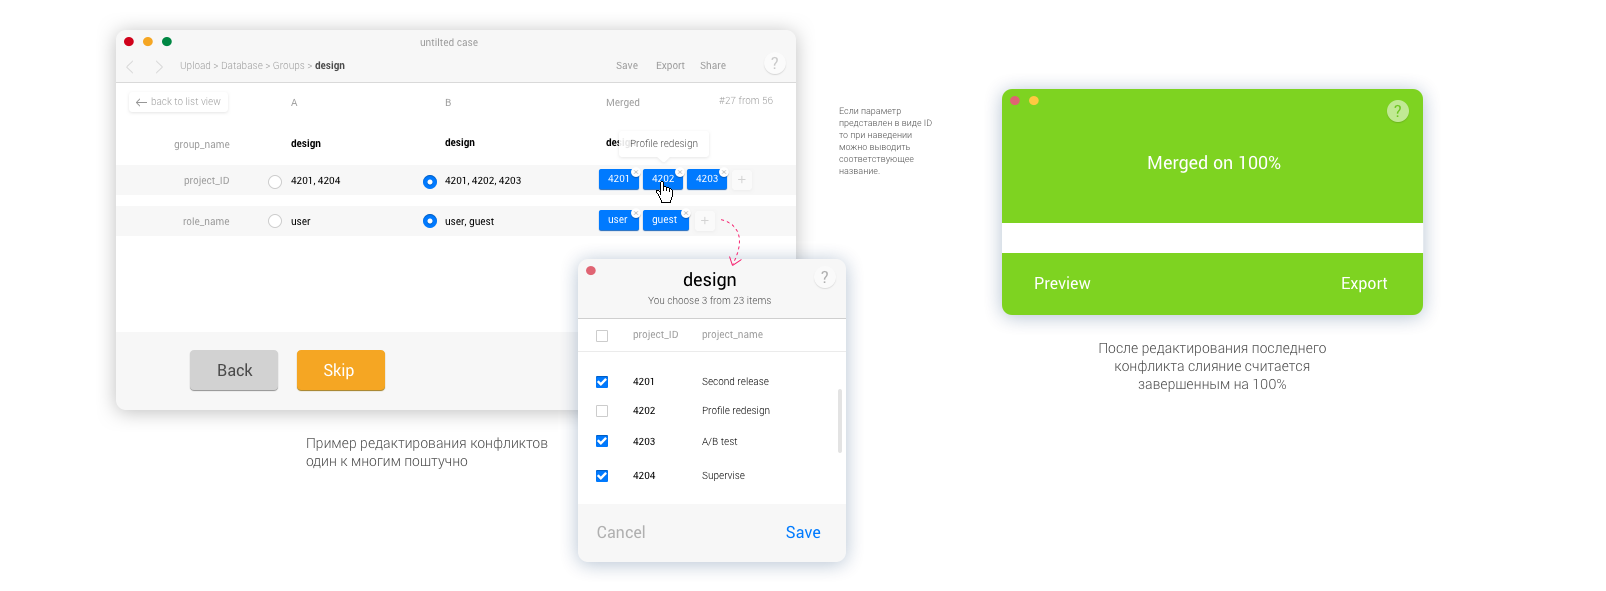
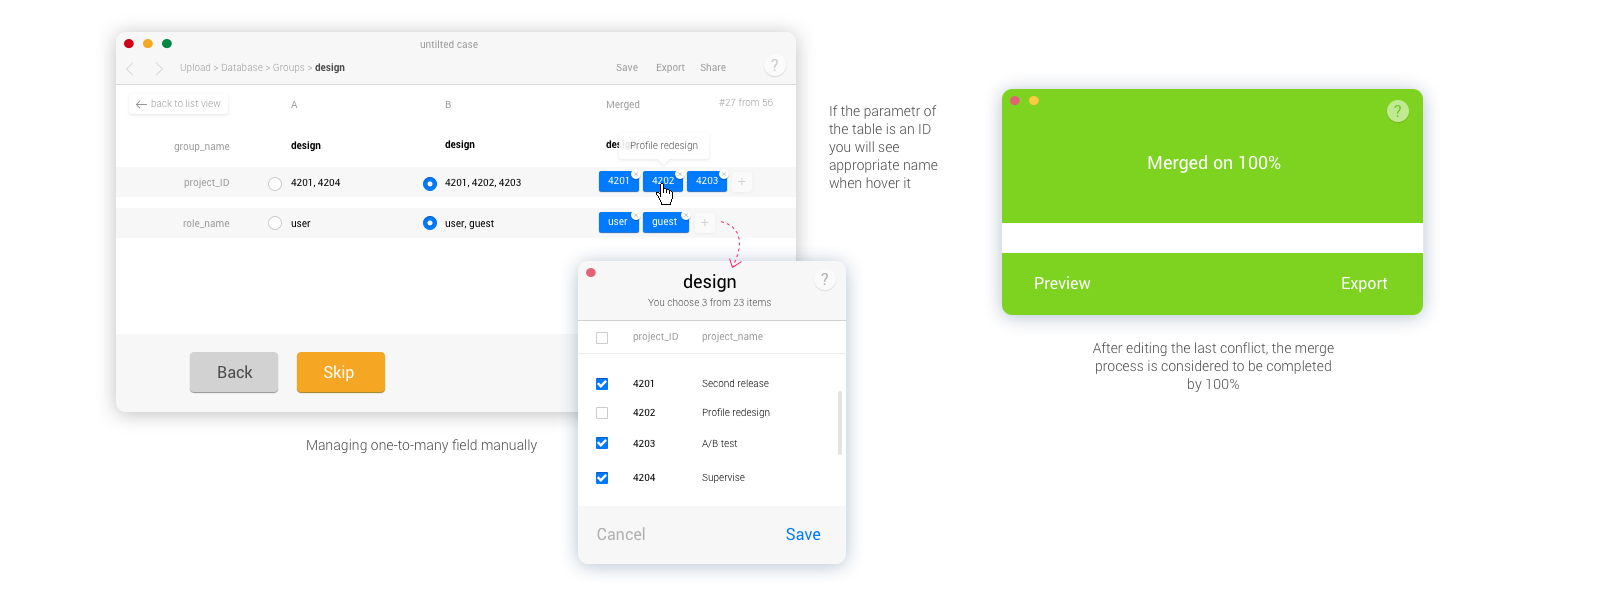
21

diff --git a/db.html b/db.html
@@ -54,21 +54,21 @@
             <h4>Design Utilities that merge 2 relational databases, saves this process in a temporary file for later editing and exporting the new database to the desired format.
 </h4>       
             <h3>The problem to think and to solve</h3>
-            <p>What is relational Database? </p>
-            <p>Why somebody needs the special tool for merging? </p>
-            <p>Who will use this tool? </p>
-            <p>What feature makes this tool comfortable for users and unique on the market? </p>
-            <p>How the is the process of merging databases going on? </p>
-            <p>Where is the point of success in this process? </p>
+            <li>What is relational Database? </li>
+            <li>Why somebody needs the special tool for merging? </li>
+            <li>Who will use this tool? </li>
+            <li>What feature makes this tool comfortable for users and unique on the market? </li>
+            <li>How the is the process of merging databases going on? </li>
+            <li>Where is the point of success in this process?</li>
             <h3>Research </h3>
             <p>A database is kind of related data and the way it is organised. The relational database help to track information about on example users, their names, logins information, various groups and projects they are involved and normalised it into a user table, groups table and projects table, accordingly. </p>
             <p>When information was being collected about a user, information stored in the optional tables would be found by searching for a special key. For instance, if the login name of a user is unique, all information about that user would be recorded with the login name as its key. Keys and table names play a "key" role when comparing or merging databases because it is for them to determine the identity of data. </p>
             <p>A relational database management system uses MERGE statements to write new or overwrite existing records depending on whether condition matches. Structure and tables comparing before merging. Each time software or script find differences it doesn't know what to do unless you create a rule for each situation or manage it manually. That's why It is much easier merge the databases with the same structure, especially if you try to automate the process. Lucky I have this particular case! </p>
-            <p>In an attempt to understand what kind of errors can occur till merging I decompose the database into tables and search for various situations with unequal data. </p>
-            <p>— If the one field in the database A matches the same field in the database B </p>
-            <p>— If the one field in the database A does not match the same field in the database B </p>
-            <p>— If the one field does not exist in the database A but does exist in the database B. </p>
-            <p>— If the one field does not exist in the database B but does exist in the database A. </p>
+            <p>In an attempt to understand what kind of errors can occur till merging I decompose the database into tables and search for various situations with unequal data: </p>
+            <ul><li>The one field in the database A matches the same field in the database B; </li>
+            <li>The one field in the database A does not match the same field in the database B; </li>
+            <li>The one field does not exist in the database A but does exist in the database B; </li>
+				<li>The one field does not exist in the database B but does exist in the database A. </li></ul>
           </div>
         </div>
     </div>
@@ -90,7 +90,7 @@
            </div>
         </div>
     </div>
-                <img class="img-responsive center-block" src="images/db_2.png" alt="">
+                <img class="img-responsive center-block" src="images/db_2.2.png" alt="">
              <div class="container" >
         <div class="row">
           <div class="col-sm-8 col-sm-offset-2">
@@ -106,13 +106,12 @@
           <div class="col-sm-8 col-sm-offset-2">
               
             <h3>First try</h3>
-                <p>Пытаемся представить себе вид этой утилиты в трех экранах. Предполагаю что процесс может быть пошаговым. 
-Предполагаем что 
-— нужно подгрузить 2 базы данных и куда то сохранить третью. Так же возможно что базы данных будут загружаться с удаленных серверов.
-— Нужно предложить правила  и настройки применимые для всей базы перед слиянием.
-— Хорошо бы держать перед глазами структуру загруженных баз ( предполагаем что она одинаковая или вроде того).
-— Нужно оставить возможность поштучного редактирования конфликтов.</p>
-                 </div>
+            <p>The first version of layout is a step-by-step process that guides the user through the interface: </p>
+            <ul><li>Step one: Loading 2 databases and specify where to save the merged one. The database can be uploaded as a file or specify a link to a remote server, enter a login and password. </li>
+            <li>Step two: Inspecting the structure of the loaded databases and selecting the rules and settings before merging. </li>
+            <li>Step three: Editing each conflict manually (If the general rules are not chosen) </li>
+				<li>Step four: saving and exporting the database.</li></ul>
+          </div>
      </div>
 </div>
                 <img class="img-responsive center-block" src="images/db_4.png" alt="">
@@ -120,18 +119,17 @@
         <div class="row">
           <div class="col-sm-8 col-sm-offset-2">
             <h3>Testing</h3>
-            <p>Возвращаемся к тест группе программистов. Предлагаем им оценить прототип утилиты для слияния баз и исправления ошибок.  Собираем обширный фидбэк:
-              — Программистам хотелось бы наглядно видеть количество конфликтов в каждой таблице отдельно. Так как от этого может зависеть тип конфликта. 
-              — Правила действующие автоматически хотелось бы применять к каждой таблице отдельно как и ко всей базе в целом.
-              — Очень не хватает предпросмотра таблицы в выделенными в ней конфликтами. 
-              — Открытую запись для редактирования привычнее видеть в столбик а не в строку.
-              — Названия параметров внутри таблицы в левой плашке бесполезны. и не интересны.
-              — Утилита  не будет подгружать фотографии из дампов  (точно!)
-              — Удаление конфликтных параметров вообще для массового решения вопроса нецелесообразно (см пункт о том что при слиянии пытаются сохранить максимум данных)
-              
-              Собираем новую версию. Учитываем ошибки. Снова тестируем на программистах. Остаются детали. Исправляем. Хотелок еще много, поэтому останавливаюсь на определенном функционале и возможностях.</p>
+            <p>Besides, I have a prototype I can return to my test group of programmers. They were asked to try database merging through prototype and give honest feedback. I measure the result and time of merging. The results were mostly successful but the test group was not satisfied with the user experience. Their feedback ordered to: </p>
+            <ul><li>Add a number of conflicts in each table, because what this can depend on is the type of conflict. </li>
+            <li>Allow Apply rules for automatic merging to individual tables and to the entire database. </li>
+            <li>Add a preview of the table in the conflicts highlighted in it. </li>
+            <li>Provide an Open record for editing as a column and not as a string. </li>
+            <li>Remove the parameter names inside the table in the left-hand dice because they are useless and not interesting. </li>
+            <li>Consider that the utility will not be able to load photos from dumps </li>
+				<li>Remove the rule allowing the Deletion of conflicting parameters because at merge try to save a maximum of data </li></ul>
+            <p>We are assembling a new version. We take into account errors. Again we test on programmers and again we celebrate. All wishes exceeding the standard base interface are transferred to the second release.</p>
             <h3> Start</h3>
-            <p>&nbsp;</p>
+            <p>When you click the Start Comparison button in the Database Comparison Toolbar, contents of the selected tables are compared and the database comparison map is updated to show comparison results. If the results of automatic mapping are inaccurate or incomplete, you can also manually map comparisons by dragging connecting lines between table columns. </p>
           </div>
      </div>
 </div>
@@ -149,25 +147,24 @@
         <div class="row">
           <div class="col-sm-8 col-sm-offset-2">
             <h3>Table preview</h3>
-            <p>Analysing the working principle of this interface, I made a number of simplifications in the data flow design. I merged tool, configuration and its result in one block and indicated all data on it. By double click, you can manage the element.  </p>
-                 </div>
+            <p> You can open detailed results windows for each table comparison, and filter the results to display or hide your preference of equal or unequal rows, rows that only contain data in the table on the left or right, or entire columns that contain identical data. </p>
+          </div>
      </div>
 </div>
                 <img class="img-responsive center-block" src="images/db_7.png" alt="">
           <div class="container" >
         <div class="row">
           <div class="col-sm-8 col-sm-offset-2">
-            <h3>Manual fixing</h3>
-            <p>Scaling and moving work area not one-way scrolling
-Managing the blocks we can easy stick it together to get more space or drag and drop it by any touch interface wich make this system ready for mobile devices. </p>
-                 </div>
+            <h3>Fixing one-to-many cases</h3>
+            <p>After you identify and fix differences between tables, you can merge content in either direction by updating individual cells or entire tables.</p>
+          </div>
      </div>
 </div>
                 <img class="img-responsive center-block" src="images/db_8.png" alt="">
               <div class="container" >
         <div class="row">
           <div class="col-sm-8 col-sm-offset-2">
-            <h3>Fixing one-to-many cases</h3>
+            <h3>Fixing one-to-one cases</h3>
             <p>For adding a new element we can have the second interface. We can drag and drop any item to work area or push on “plus” button and also get the menu.  </p>
                  </div>
      </div>

diff --git a/index.html b/index.html
@@ -62,7 +62,7 @@
           <h4 class="text-left" style="padding-top: 10px">What actually this tool does? Who uses this software and how?How simplify it for non-tech users?</h4>
        
         </div></a>
-      <a href="https://www.artlebedev.ru/rbank/mobile/process-1/"> <div class="col-md-4 block-inside block-color-03">
+      <a href="https://www.artlebedev.com/rbank/mobile/process-1/"> <div class="col-md-4 block-inside block-color-03">
             <h2>Mobile banking</h2>
           <h4 style="margin-top: -8px">Application for IOS&Android</h4>
         </div></a>
